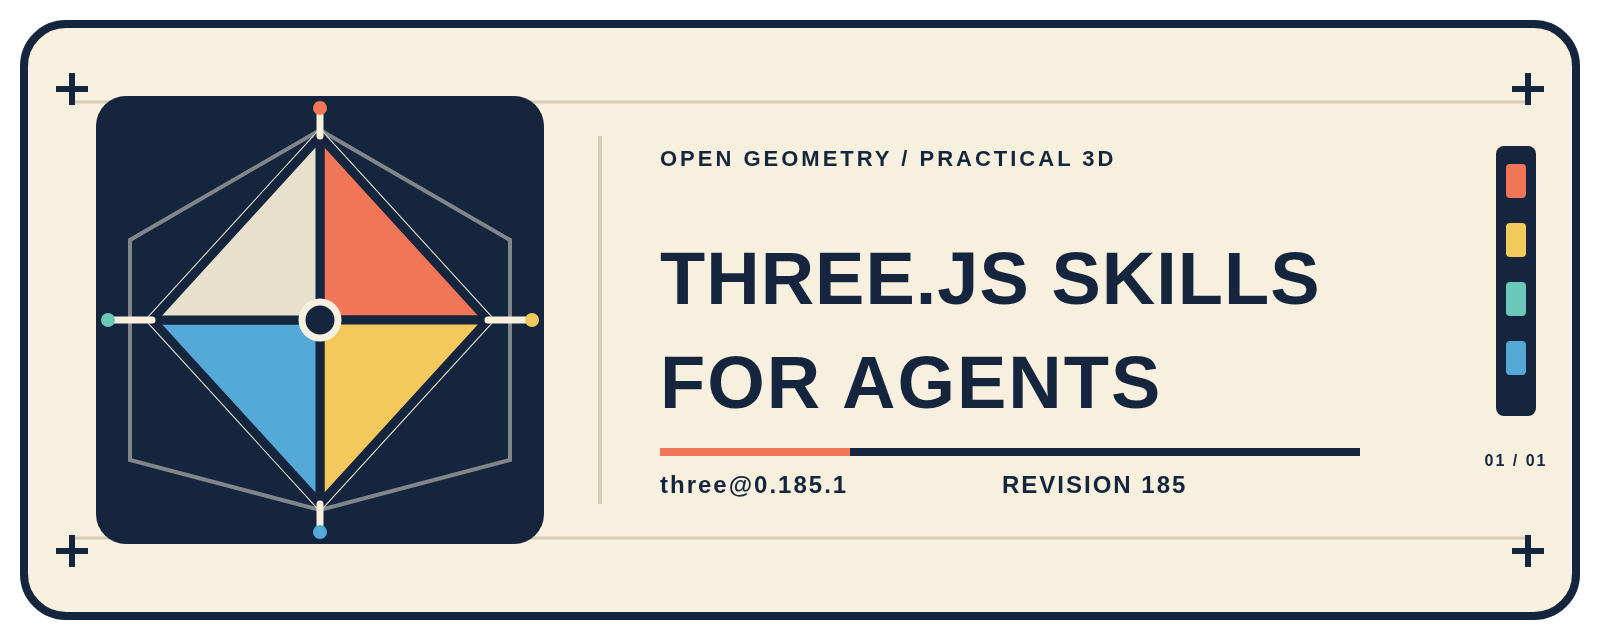
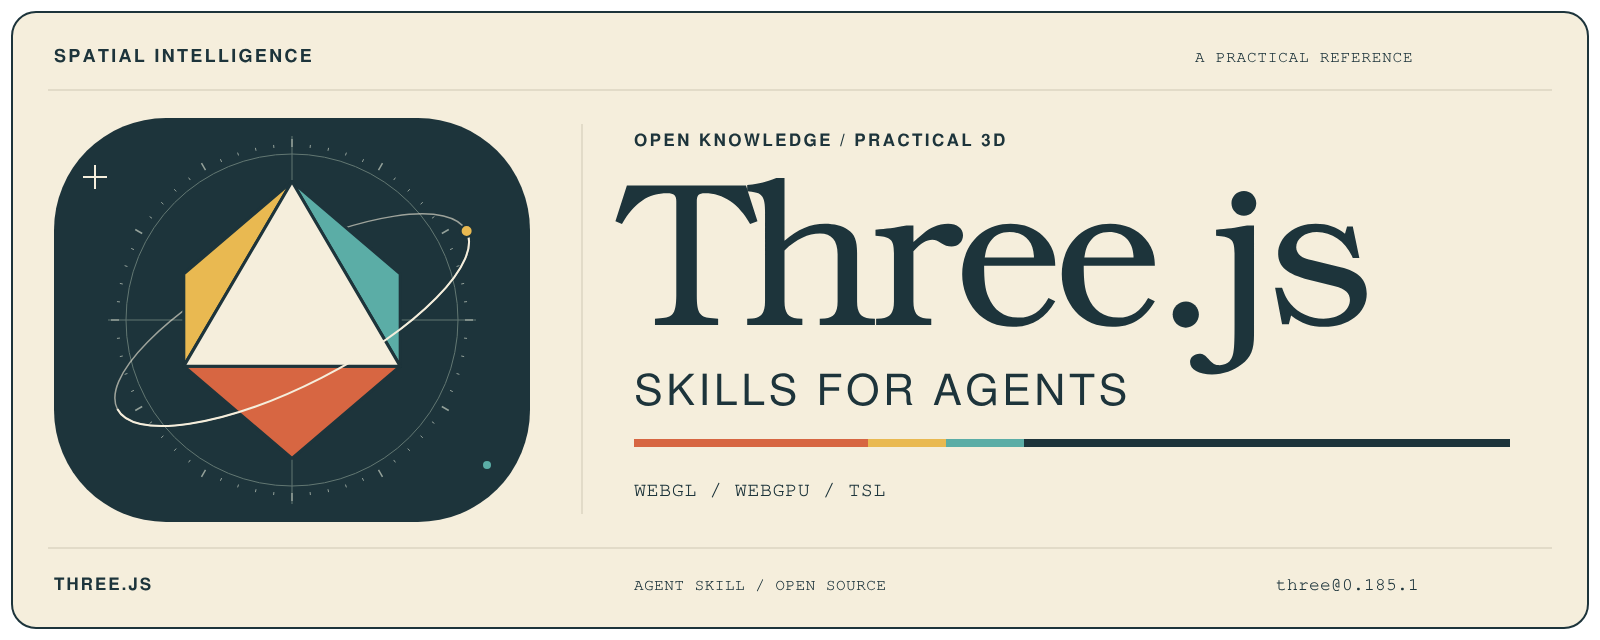
Refine project artwork with a scholastic spatial identity

diff --git a/README.md b/README.md
@@ -52,7 +52,7 @@ Target exactly `three@0.185.1` / revision 185 throughout. Use these public packa
 - [Revision 185 source tag](https://github.com/mrdoob/three.js/tree/r185) and [revision 185 package exports](https://github.com/mrdoob/three.js/blob/r185/package.json)
 - [Three.js migration guide](https://github.com/mrdoob/three.js/wiki/Migration-Guide)
 
-The package follows the [Agent Skills specification](https://agentskills.io/specification). The repository identity artwork is available as the [SVG source](assets/threejs-skills-for-agents.svg).
+The package follows the [Agent Skills specification](https://agentskills.io/specification). The repository identity artwork is available as the [SVG source](assets/threejs-skills-for-agents.svg). Its outlined lettering needs no installed fonts. After installing the maintainer dependencies and Chromium below, run `npm run render:artwork` to regenerate the README PNG from the SVG.
 
 ## Validation
 
